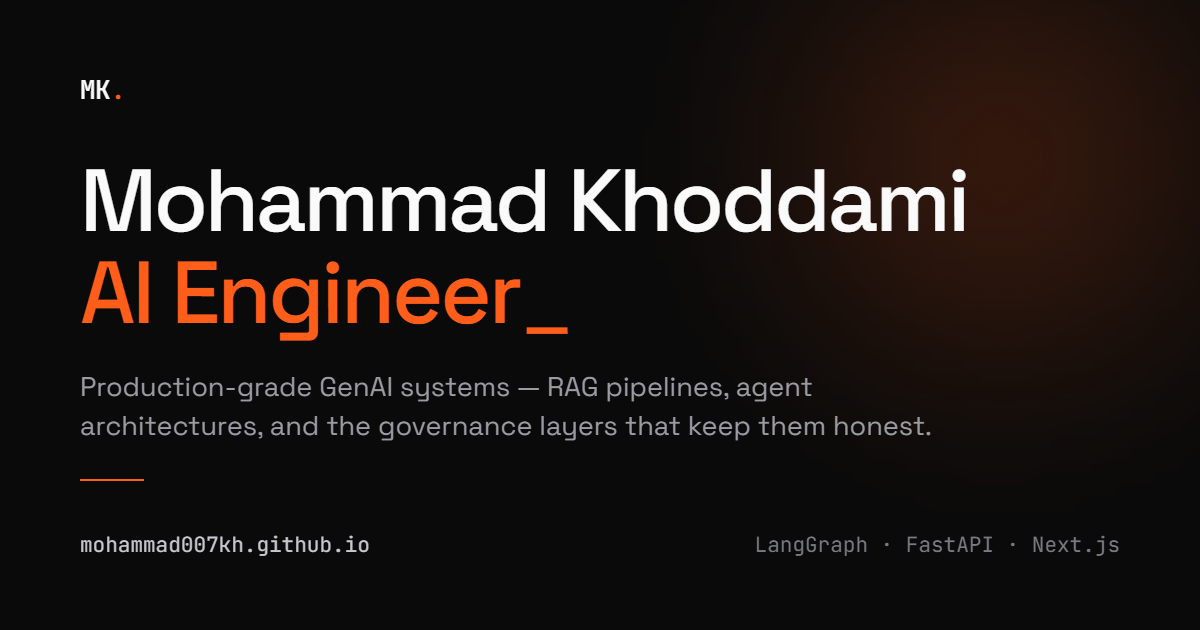
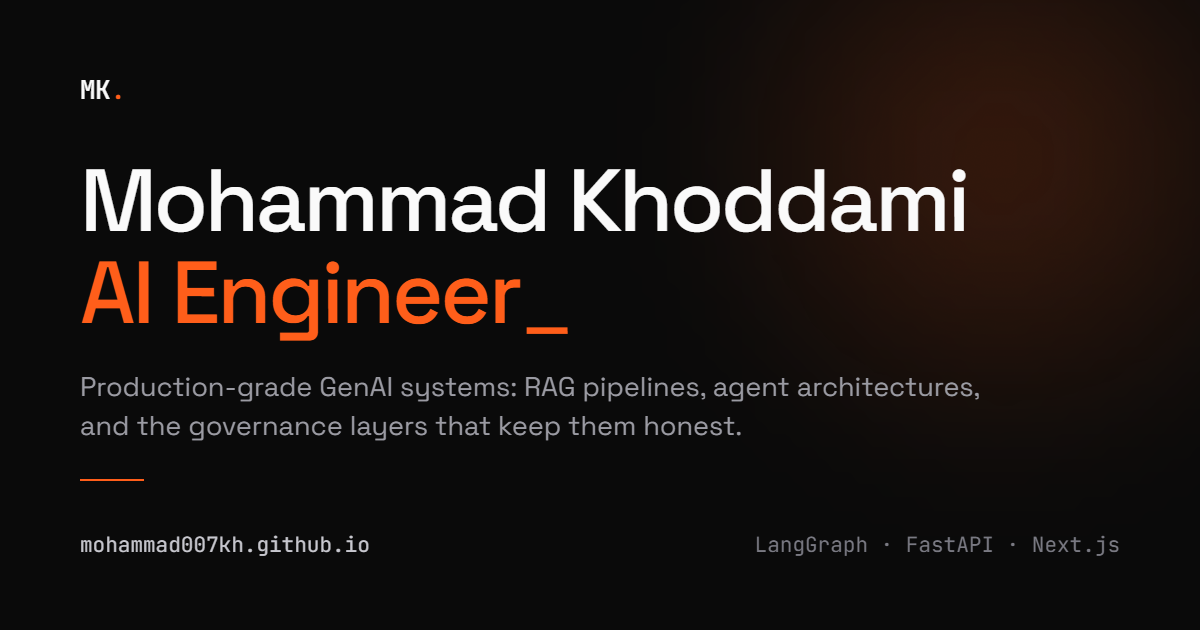
style: remove every em dash from copy, markup and comments
The em dash reads as machine-written. Replaced all 31 occurrences with
punctuation chosen per context rather than one blanket substitute:

- name/role title separators  -> pipe   (Mohammad Khoddami | AI Engineer)
- section numbers             -> slash  (01 / About), matching the mono UI
- dash introducing a list     -> colon  (5 agents: Claude Code, Cursor...)
- dash joining two clauses    -> period, splitting the sentence in two
- dash in the contact line    -> comma

Touches index.html, 404.html, README.md, styles.css comments, and the
og.png card (re-rendered). Meta description, og:image:alt and the Person
JSON-LD description were rewritten the same way; JSON-LD re-validated.

No layout, style or structural change.

Changed region(s): [[0.0925, 0.6635, 0.7708, 0.6937], [0.4317, 0.6032, 0.8325, 0.6333]]

diff --git a/index.html b/index.html
@@ -3,24 +3,24 @@
 <head>
   <meta charset="UTF-8" />
   <meta name="viewport" content="width=device-width, initial-scale=1" />
-  <title>Mohammad Khoddami — AI Engineer</title>
-  <meta name="description" content="Full-stack AI engineer building production-grade GenAI systems — RAG pipelines, multi-node agent architectures, and the governance layers that keep them honest." />
+  <title>Mohammad Khoddami | AI Engineer</title>
+  <meta name="description" content="Full-stack AI engineer building production-grade GenAI systems: RAG pipelines, multi-node agent architectures, and the governance layers that keep them honest." />
 
   <link rel="canonical" href="https://mohammad007kh.github.io/" />
 
   <meta property="og:type" content="website" />
   <meta property="og:site_name" content="Mohammad Khoddami" />
   <meta property="og:locale" content="en_US" />
-  <meta property="og:title" content="Mohammad Khoddami — AI Engineer" />
+  <meta property="og:title" content="Mohammad Khoddami | AI Engineer" />
   <meta property="og:description" content="Full-stack AI engineer. RAG pipelines, autonomous agents, and the governance layers that keep them honest." />
   <meta property="og:url" content="https://mohammad007kh.github.io/" />
   <meta property="og:image" content="https://mohammad007kh.github.io/og.png" />
   <meta property="og:image:width" content="1200" />
   <meta property="og:image:height" content="630" />
-  <meta property="og:image:alt" content="Mohammad Khoddami — AI Engineer. Production-grade GenAI systems: RAG pipelines, agent architectures, and the governance layers that keep them honest." />
+  <meta property="og:image:alt" content="Mohammad Khoddami, AI Engineer. Production-grade GenAI systems: RAG pipelines, agent architectures, and the governance layers that keep them honest." />
 
   <meta name="twitter:card" content="summary_large_image" />
-  <meta name="twitter:title" content="Mohammad Khoddami — AI Engineer" />
+  <meta name="twitter:title" content="Mohammad Khoddami | AI Engineer" />
   <meta name="twitter:description" content="Full-stack AI engineer. RAG pipelines, autonomous agents, and the governance layers that keep them honest." />
   <meta name="twitter:image" content="https://mohammad007kh.github.io/og.png" />
 
@@ -54,7 +54,7 @@
     "jobTitle": "AI Engineer",
     "url": "https://mohammad007kh.github.io/",
     "image": "https://mohammad007kh.github.io/og.png",
-    "description": "Full-stack AI engineer building production-grade generative AI systems — RAG pipelines, multi-node agent architectures, and the governance layers that keep them honest.",
+    "description": "Full-stack AI engineer building production-grade generative AI systems: RAG pipelines, multi-node agent architectures, and the governance layers that keep them honest.",
     "knowsAbout": [
       "Retrieval-Augmented Generation",
       "LLM agent architectures",
@@ -118,8 +118,8 @@
         and the governance layers that keep them honest.
       </p>
       <p class="lede-sub reveal">
-        Forward-deployed: I sit between what clients need and what gets shipped &mdash;
-        spec to production, no layer in between.
+        Forward-deployed: I sit between what clients need and what gets shipped.
+        Spec to production, no layer in between.
       </p>
       <div class="hero-ctas reveal">
         <a href="#work" class="cta">
@@ -134,7 +134,7 @@
 
     <section id="about" class="section">
       <header class="section-header">
-        <span class="section-num reveal">01 — About</span>
+        <span class="section-num reveal">01 / About</span>
         <h2 class="section-title reveal">Why companies hire me.</h2>
       </header>
 
@@ -186,7 +186,7 @@
         </p>
         <p>
           I work forward-deployed. I sit with the client, turn their requests into specs, build
-          them, and come back for review with the people who actually use the thing &mdash; no PM
+          them, and come back for review with the people who actually use the thing. No PM
           layer in between. The feedback loop is hours, not sprints.
         </p>
       </div>
@@ -194,7 +194,7 @@
 
     <section id="work" class="section">
       <header class="section-header">
-        <span class="section-num reveal">02 — Selected work</span>
+        <span class="section-num reveal">02 / Selected work</span>
         <h2 class="section-title reveal">Things I've built.</h2>
       </header>
 
@@ -213,7 +213,7 @@
                 RAG-grounded document drafting with per-clause source citation, structure-aware
                 chunking, and confidence scoring.
               </p>
-              <p class="work-note">Client work &mdash; product names withheld.</p>
+              <p class="work-note">Client work. Product names withheld.</p>
             </div>
             <div class="work-tags" aria-hidden="true">
               <span>Next.js</span><span>FastAPI</span><span>Gemini</span>
@@ -237,7 +237,7 @@
                 the strategy.
               </p>
               <p class="work-note">
-                Validated end-to-end on 5 agents &mdash; Claude Code, Cursor, GitHub Copilot,
+                Validated end-to-end on 5 agents: Claude Code, Cursor, GitHub Copilot,
                 Gemini CLI, Windsurf. 12 more experimental, 17 total.
               </p>
             </div>
@@ -273,7 +273,7 @@
           <a href="https://github.com/lmstudio-ai/localization" target="_blank" rel="noopener noreferrer" aria-label="View LM Studio localization repo">
             <span class="work-num">04</span>
             <div class="work-meta">
-              <h3>LM Studio &mdash; Persian Localization</h3>
+              <h3>LM Studio: Persian Localization</h3>
               <p>
                 First Farsi translation for the popular local-LLM application. Open-source
                 contribution.
@@ -290,7 +290,7 @@
 
     <section id="stack" class="section">
       <header class="section-header">
-        <span class="section-num reveal">03 — Stack</span>
+        <span class="section-num reveal">03 / Stack</span>
         <h2 class="section-title reveal">Tools I reach for.</h2>
       </header>
 
@@ -365,7 +365,7 @@
 
     <section id="teaching" class="section">
       <header class="section-header">
-        <span class="section-num reveal">04 — Teaching</span>
+        <span class="section-num reveal">04 / Teaching</span>
         <h2 class="section-title reveal">@CodeWithMamad.</h2>
       </header>
 
@@ -381,7 +381,7 @@
           <iframe
             loading="lazy"
             src="https://www.youtube.com/embed/videoseries?si=DRBD6jmTAbZudeJb&amp;list=PLHSUcJ83dbdF3KwMFgY0b7cEzryXukzhL"
-            title="@CodeWithMamad — Course playlist 01"
+            title="@CodeWithMamad: Course playlist 01"
             referrerpolicy="strict-origin-when-cross-origin"
             allow="accelerometer; autoplay; clipboard-write; encrypted-media; gyroscope; picture-in-picture; web-share"
             allowfullscreen></iframe>
@@ -390,7 +390,7 @@
           <iframe
             loading="lazy"
             src="https://www.youtube.com/embed/videoseries?si=7znmv0uWjKOhiTTq&amp;list=PLHSUcJ83dbdE_vTqh5ZweZaE-iC-a8flp"
-            title="@CodeWithMamad — Course playlist 02"
+            title="@CodeWithMamad: Course playlist 02"
             referrerpolicy="strict-origin-when-cross-origin"
             allow="accelerometer; autoplay; clipboard-write; encrypted-media; gyroscope; picture-in-picture; web-share"
             allowfullscreen></iframe>
@@ -405,13 +405,13 @@
 
     <section id="contact" class="section">
       <header class="section-header">
-        <span class="section-num reveal">05 — Contact</span>
+        <span class="section-num reveal">05 / Contact</span>
         <h2 class="section-title reveal">Let's talk.</h2>
       </header>
       <div class="section-body reveal">
         <p>
           If you're working on something interesting in Generative AI, agent architectures,
-          or AI governance — let's connect on LinkedIn.
+          or AI governance, let's connect on LinkedIn.
         </p>
         <a href="https://www.linkedin.com/in/mohammadkhoddami/" target="_blank" rel="noopener noreferrer" class="big-link">
           linkedin.com/in/mohammadkhoddami<span class="big-link-arrow" aria-hidden="true">↗</span>

diff --git a/404.html b/404.html
@@ -3,7 +3,7 @@
 <head>
   <meta charset="UTF-8" />
   <meta name="viewport" content="width=device-width, initial-scale=1" />
-  <title>404 — Mohammad Khoddami</title>
+  <title>404 | Mohammad Khoddami</title>
   <meta name="robots" content="noindex" />
   <meta name="theme-color" content="#0a0a0a" />
   <link rel="preconnect" href="https://fonts.googleapis.com" />
@@ -55,7 +55,7 @@
       <p class="eyebrow">Error</p>
       <h1 class="nf-code">4<span>0</span>4</h1>
       <p class="nf-msg">
-        This page doesn't exist — or it did once, in a previous version of this site.
+        This page doesn't exist. Or it did once, in a previous version of this site.
         Either way, it's gone now.
       </p>
       <a href="/" class="cta">

diff --git a/styles.css b/styles.css
@@ -1,5 +1,5 @@
 /* ----------------------------------------------------------
-   Mohammad Khoddami — personal site
+   Mohammad Khoddami / personal site
    ---------------------------------------------------------- */
 
 :root {
@@ -606,7 +606,7 @@ main { display: block; }
   }
 }
 
-/* ---------- Work item — status badge ---------- */
+/* ---------- Work item: status badge ---------- */
 
 .work-title-row {
   display: flex;
@@ -979,7 +979,7 @@ button:focus-visible {
   }
 }
 
-/* status badge — quiet variant, for version tags */
+/* status badge: quiet variant, for version tags */
 
 .work-status--quiet {
   border-color: var(--border);

diff --git a/README.md b/README.md
@@ -2,7 +2,7 @@
 
 Personal site of Mohammad Khoddami.
 
-Pure HTML / CSS / JavaScript — no build step, no framework, no dependencies.
+Pure HTML / CSS / JavaScript. No build step, no framework, no dependencies.
 Served directly by GitHub Pages from this repository (the `.nojekyll` file
 disables Jekyll processing so files are served as-is).
 
@@ -18,12 +18,12 @@ npx serve .
 
 ## Structure
 
-- `index.html` — single-page site
-- `styles.css` — all styles
-- `script.js` — all behavior (theme toggle, cursor glow, reveal-on-scroll, tagline
+- `index.html`: single-page site
+- `styles.css`: all styles
+- `script.js`: all behavior (theme toggle, cursor glow, reveal-on-scroll, tagline
   rotator, contribution-graph fallback)
-- `404.html` — error page
-- `.nojekyll` — tells GitHub Pages to skip Jekyll
-- `google*.html` — Search Console verification
+- `404.html`: error page
+- `.nojekyll`: tells GitHub Pages to skip Jekyll
+- `google*.html`: Search Console verification
 
 Live at: <https://mohammad007kh.github.io>
